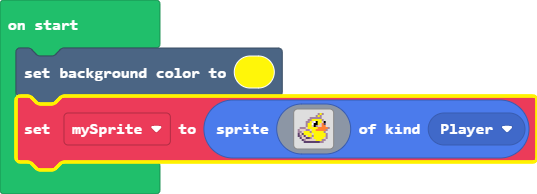
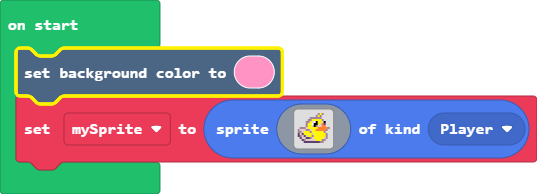
Update main.blocks, main.ts

Changed region(s): [[0.0, 0.2165, 1.0, 0.8969]]

diff --git a/main.ts b/main.ts
@@ -1,4 +1,4 @@
-scene.setBackgroundColor(5)
+scene.setBackgroundColor(3)
 let mySprite = sprites.create(img`
     . . . . . . . . . . b 5 b . . . 
     . . . . . . . . . b 5 b . . . . 
